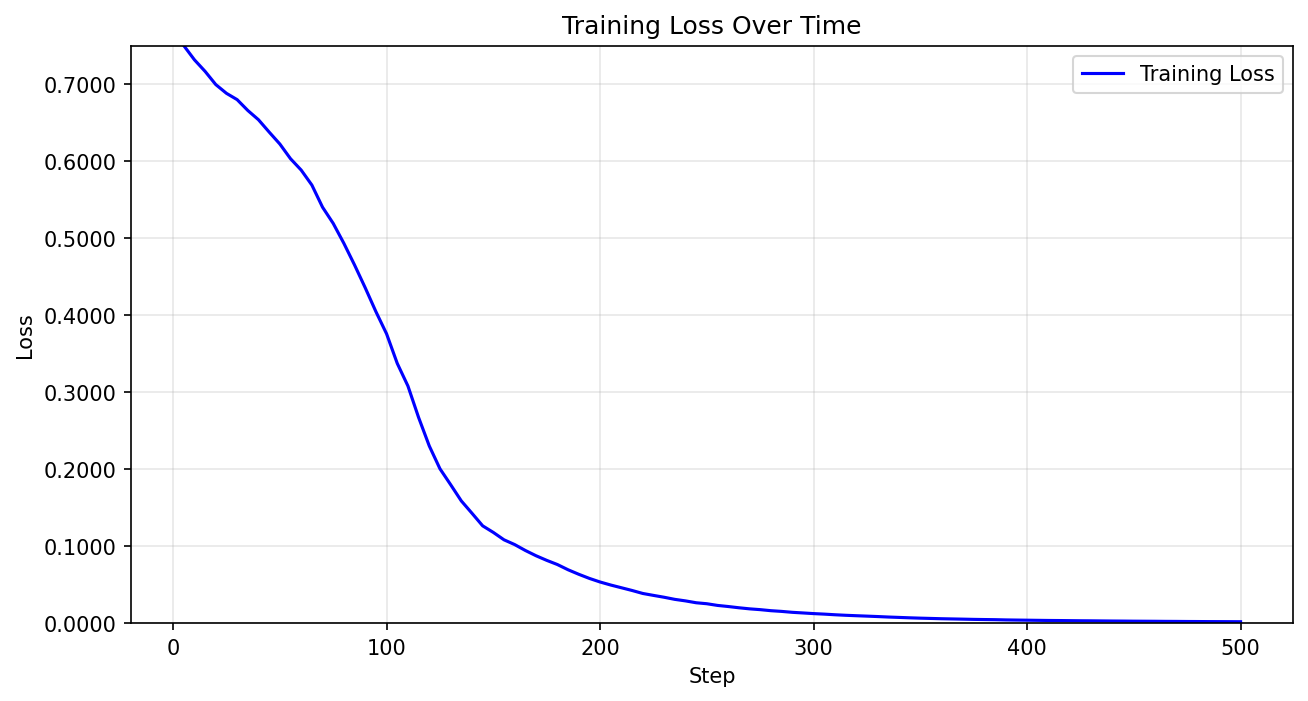
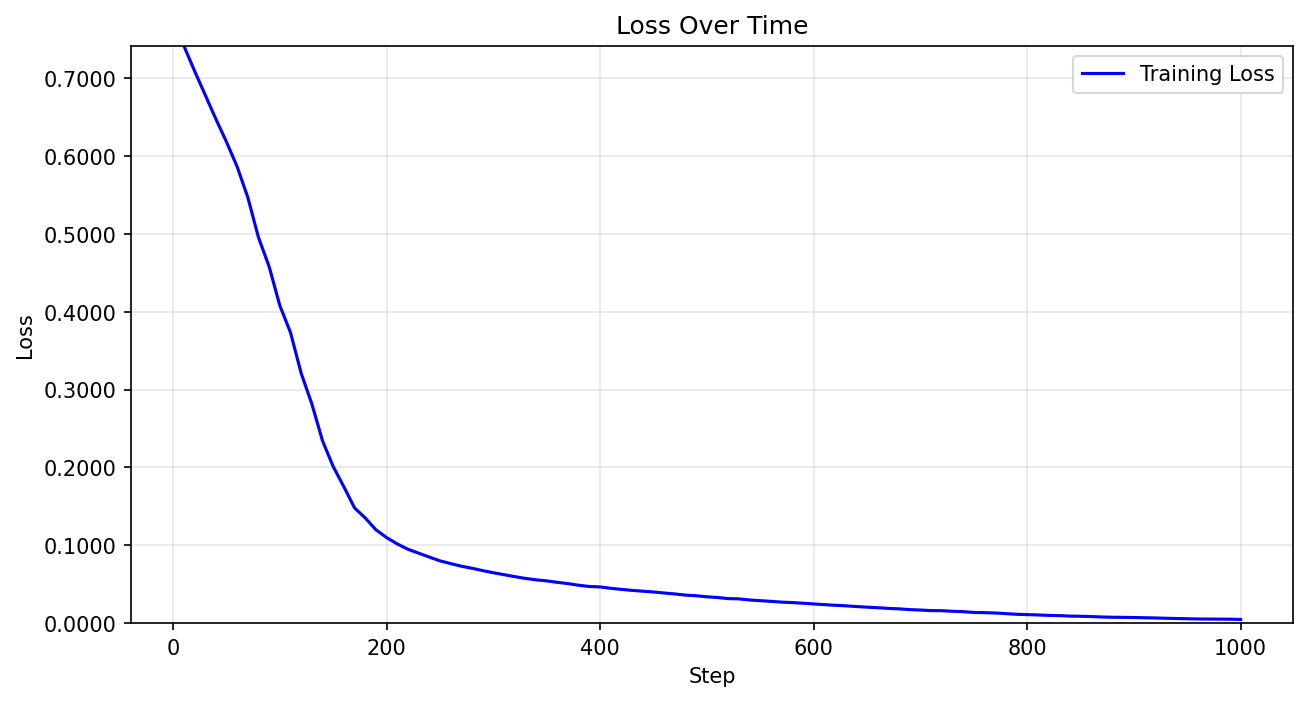
little adjustments

diff --git a/example/config.py b/example/config.py
@@ -8,8 +8,8 @@ import torch
 # details about parameters can be found in configs_vars.py
 
 # train params
-STEPS = 500
-BATCH_SIZE = 512
+STEPS = 1_000
+BATCH_SIZE = 256
 LOG_SEGMENTS = 100
 
 # LOAD_MODEL = "example/example.pt"
@@ -74,13 +74,13 @@ FPS = None # waits for input
 TEMPERATURE = 1.0
 TOP_P = 0.99 # only applied if temperature > 1.0
 
-model = NACE(actions=4, vis_channels=len(COLOR_MAP), hid_channels=1, input_length=1, hidden_neurons=24, padding_mode='circular', device='cuda')
-print("Input dimension:", model.input_dim)
+model = NACE(actions=4, vis_channels=len(COLOR_MAP), hid_channels=0, input_length=1, hidden_neurons=24, padding_mode='circular', device='cuda')
+print("Input dimension:", model.input_dim) # you could concatenate: "->", model.projection_channels, when using projection
 
 optimizer = torch.optim.Adam(model.parameters(), lr=1e-3)
 
-# not that useful in such a simple environment
-# scheduler = torch.optim.lr_scheduler.ExponentialLR(optimizer, gamma=0.9995)
+# simple scheduler for a simple environment
+scheduler = torch.optim.lr_scheduler.ExponentialLR(optimizer, gamma=0.9995)
 
 weights = torch.tensor(weights, device=model.device)
 loss_func = torch.nn.CrossEntropyLoss(weight=weights)
